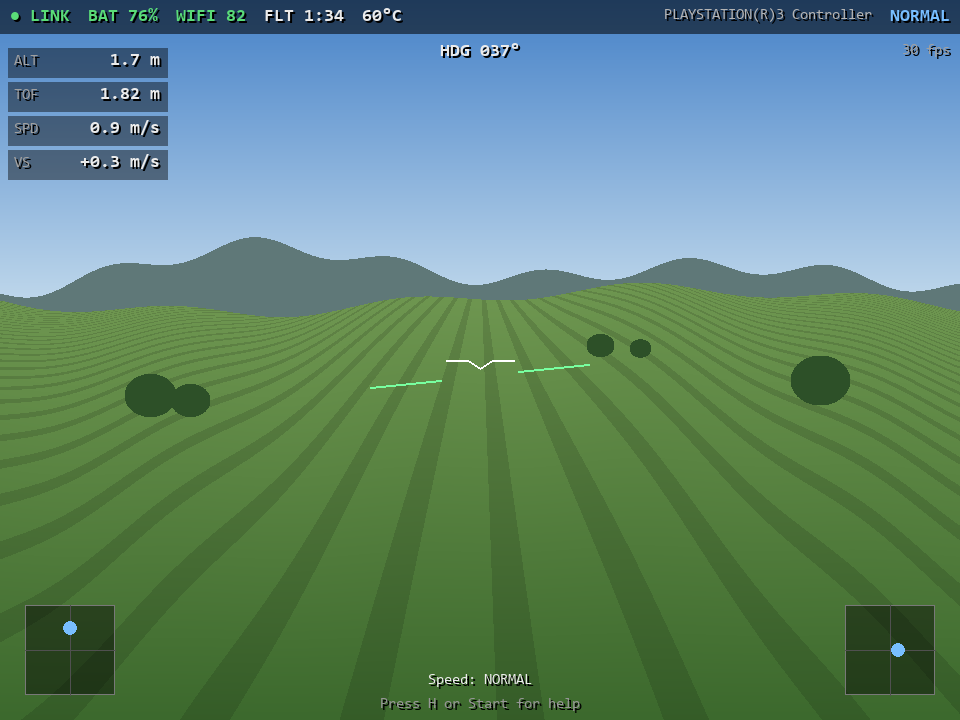
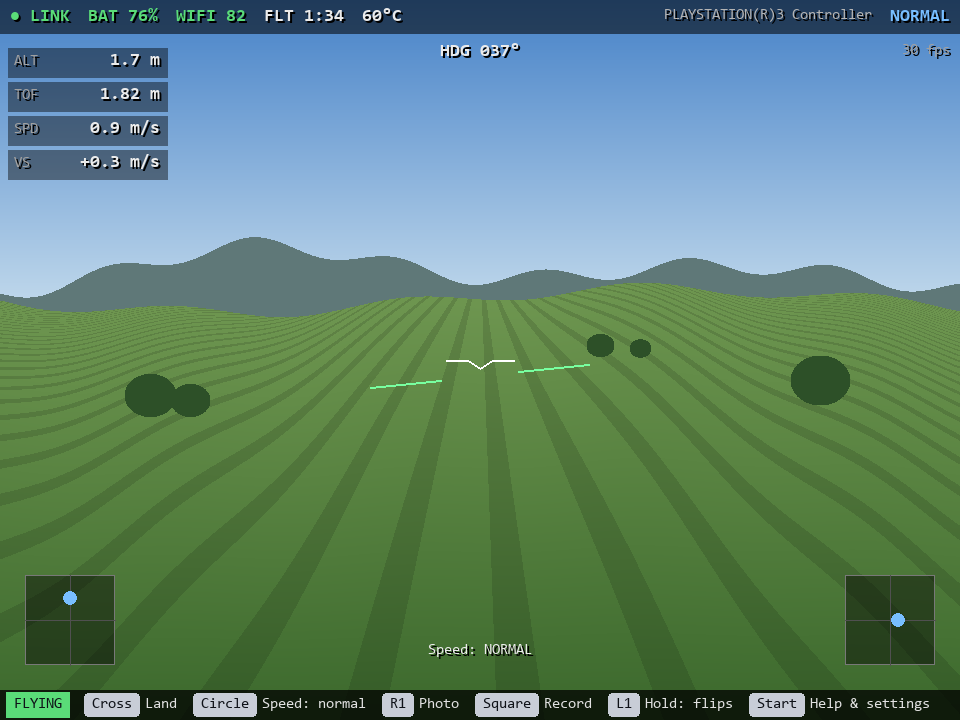
Document the button guide, downloads and builds in the README

Changed region(s): [[0.0, 0.7944, 1.0, 1.0], [0.0, 0.7944, 0.125, 0.8861]]

diff --git a/README.md b/README.md
@@ -11,6 +11,7 @@ Fly a Ryze/DJI Tello from your PC with a PS3 controller (via DsHidMini) or the k
 ## Features
 
 - **Live video** in a resizable window or fullscreen (F11).
+- **Button guide** at the bottom that shows only the buttons you need right now, for the pad or the keyboard, whichever you used last.
 - **HUD:** battery, Wi-Fi signal, flight time, temperature, altitude, height above ground, speed, climb rate, heading, a horizon line, and stick positions. Each element can be turned off.
 - **Gamepad and keyboard at the same time.** Keys follow their physical position, so `WASD` is `ZQSD` on AZERTY keyboards.
 - **Settings screen.** Rebind every key and pad button, swap the sticks, adjust speeds and stick feel, change landing behaviour, and pick battery-saving options. Everything is saved to `config.json`.
@@ -18,13 +19,37 @@ Fly a Ryze/DJI Tello from your PC with a PS3 controller (via DsHidMini) or the k
 - **Landing help:** optional automatic retries, and a warning with instructions if landing keeps failing.
 - **Battery saving:** video only while flying or off, lower stream quality, auto-land at a battery level, and a lower app frame rate.
 
+## Download
+
+Ready-to-run builds for Windows, Linux and macOS are made by GitHub Actions: get them from the repository's **Releases** page, or from the **Actions** tab (open a run, then **Artifacts**).
+
+| System | File | How to start |
+|---|---|---|
+| Windows | `TelloRevived-windows-x64.exe` | Double-click it. Settings and media are saved next to the exe. |
+| Linux | `TelloRevived-linux-x64.tar.gz` | Extract it and run `TelloRevived/TelloRevived`. |
+| macOS | `TelloRevived-macos-arm64.zip` (Apple silicon) or `-x64.zip` (Intel) | Unzip and open **Tello Revived.app**. It isn't signed, so the first time right-click it and choose **Open**. Settings and media go in `~/Tello Revived`. |
+
 ## Setup
 
-1. Turn on the Tello and connect the PC's Wi-Fi to `TELLO-XXXXXX`.
-2. Double-click `run.bat`. The first time, it creates `.venv` and installs `pygame-ce`, `av` and `numpy`.
-3. On the first run, Windows Firewall asks about Python. Allow it on **Public** networks, because Windows treats the Tello's Wi-Fi as public. If you don't, there will be no video and no telemetry.
+1. Turn on the Tello and connect the computer's Wi-Fi to `TELLO-XXXXXX`.
+2. Start the downloaded app, or run from source: double-click `run.bat` on Windows, or run `./run.sh` on Linux and macOS. The first time, the script creates `.venv` and installs `pygame-ce`, `av` and `numpy`.
+3. On Windows the firewall asks about the app (or Python) on the first run. Allow it on **Public** networks, because Windows treats the Tello's Wi-Fi as public. If you don't, there will be no video and no telemetry.
 
-Press **H** or **Start** for the controls and **O** for settings.
+When the drone is connected, the screen tells you which button takes off. Press **H** or **Start** for all the controls and **O** for settings.
+
+## Button guide
+
+The bar at the bottom changes with what the drone is doing, so you rarely need the help screen:
+
+| On the ground | Flying | Holding the flip button (L1) |
+|---|---|---|
+| ![Ready to take off](docs/screenshots/ready.png) | ![Flying](docs/screenshots/flight.png) | ![Flip directions](docs/screenshots/flip.png) |
+
+It shows the pad's buttons after you touch the pad and the keyboard's keys after you press a key:
+
+![Button guide for the keyboard](docs/screenshots/flight_keyboard.png)
+
+While landing, or after a landing fails, the emergency stop is added to the front. You can turn the bar off in **Settings → HUD**.
 
 ## Default controls
 
@@ -101,3 +126,16 @@ All of these are on the **Video & Power** page:
 | `settings.py` | Defaults, `config.json` loading and saving, key and button names |
 | `assets/make_logo.py` | Draws `assets/logo.png` and the window icon |
 | `tools/make_screenshots.py` | Renders the README screenshots without a drone |
+| `tools/build.py` | Builds the standalone app for the current system |
+| `.github/workflows/build.yml` | Builds and tests Windows, Linux and macOS versions on GitHub |
+
+## Building the app yourself
+
+```
+python -m pip install -r requirements-build.txt
+python tools/build.py
+```
+
+The result is in `dist/`. Use a separate virtual environment for this if you like, so PyInstaller stays out of the one `run.bat` uses. `TelloRevived --selftest` starts the app without a drone, draws a few frames and exits; the GitHub workflow runs it on every build.
+
+To publish a release, push a tag such as `v1.0`. The workflow builds all four versions and attaches them to a GitHub release.
